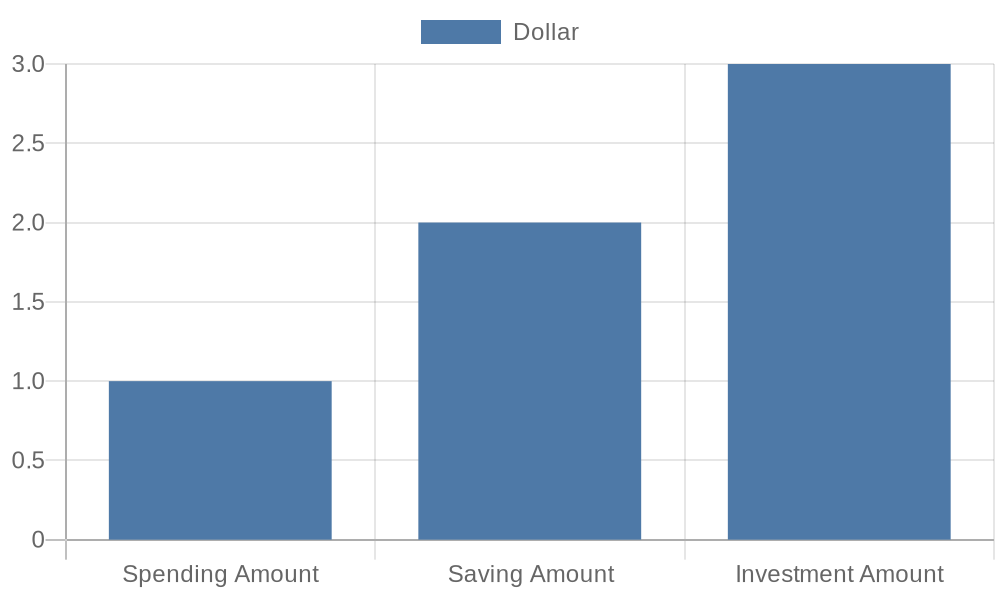
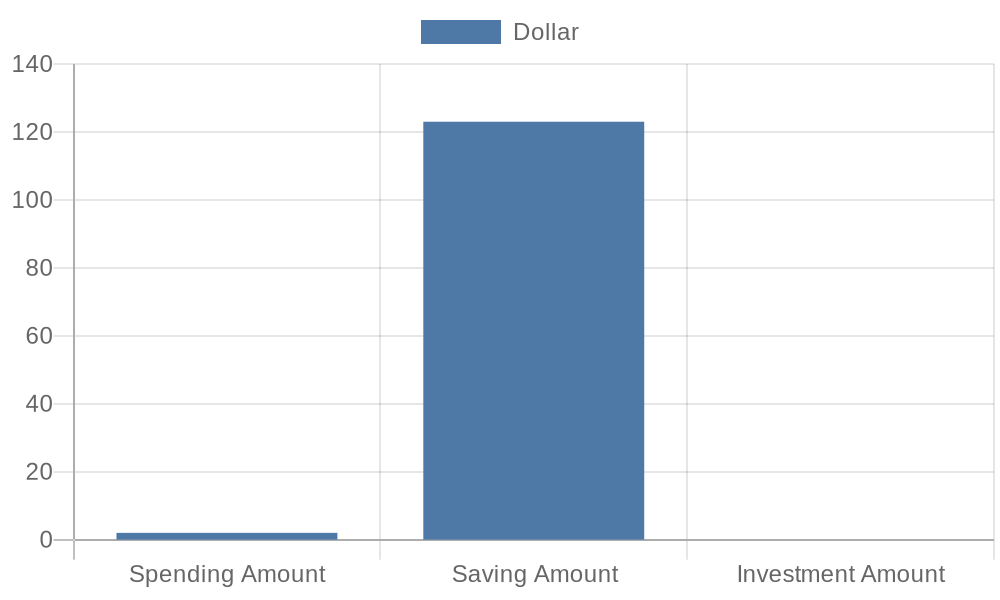
adjusted homescreen presenter/controller so that it uses the ChartQuery class to generate a graph reflecting the financial data on the homepage for each respective month.

diff --git a/src/view/HomeScreenView.java b/src/view/HomeScreenView.java
@@ -6,10 +6,12 @@ import interface_adapter.home_screen.HomeScreenState;
 import interface_adapter.home_screen.HomeScreenViewModel;
 import interface_adapter.ViewManagerModel;
 import javax.swing.*;
+import java.awt.*;
 import java.awt.event.ActionEvent;
 import java.awt.event.ActionListener;
 import java.beans.PropertyChangeEvent;
 import java.beans.PropertyChangeListener;
+import java.awt.image.BufferedImage;
 
 public class HomeScreenView extends JPanel implements ActionListener, PropertyChangeListener {
 
@@ -25,8 +27,10 @@ public class HomeScreenView extends JPanel implements ActionListener, PropertyCh
     private final JLabel remainingBudgetLabel; // "Remaining Budget: "
     private final JLabel totalIncomeLabel; // "Total Income: "
     private final JLabel totalExpensesLabel; // "Total Expenses: "
+    private JLabel statGraphImg;
 
     public HomeScreenView(HomeScreenViewModel homeVM, ViewManagerModel viewManagerModel, HomeScreenController homeController) {
+        this.setPreferredSize(new Dimension(1200, 800));
         this.homeVM = homeVM;
         this.viewManagerModel = viewManagerModel;
         this.homeController = homeController;
@@ -54,7 +58,11 @@ public class HomeScreenView extends JPanel implements ActionListener, PropertyCh
 
                             // call the controller to retrieve the new stats and display them
                             HomeScreenInputData inputData = new HomeScreenInputData(currState.getMonth());
-                            homeController.execute(inputData);
+                            try {
+                                homeController.execute(inputData);
+                            } catch (Exception e) {
+
+                            }
                         }
                     }
                 }
@@ -69,6 +77,14 @@ public class HomeScreenView extends JPanel implements ActionListener, PropertyCh
         remainingBudgetLabel = new JLabel("Remaining Budget: ");
         totalIncomeLabel = new JLabel("Total Income: ");
         totalExpensesLabel = new JLabel("Total Expenses: ");
+
+        BufferedImage statGraph = homeVM.getState().getStatGraph();
+        statGraphImg = new JLabel();
+        if (statGraph != null) {
+            Image scaledGraph = statGraph.getScaledInstance(320, 180, Image.SCALE_DEFAULT);
+            statGraphImg.setIcon(new ImageIcon(scaledGraph));
+        }
+        this.add(statGraphImg);
 
         JPanel buttons = new JPanel();
         buttons.add(addEditBudgetButton);
@@ -115,7 +131,6 @@ public class HomeScreenView extends JPanel implements ActionListener, PropertyCh
     @Override
     public void propertyChange(PropertyChangeEvent evt) {
         Object response = evt.getNewValue();
-
         // view changed to home view, update the stats using the controller
         if (evt.getPropertyName().equals("viewUpdate")) {
             HomeScreenState currState = homeVM.getState();
@@ -125,11 +140,16 @@ public class HomeScreenView extends JPanel implements ActionListener, PropertyCh
 
             // call the controller to retrieve the new stats and display them
             HomeScreenInputData inputData = new HomeScreenInputData(currState.getMonth());
-            homeController.execute(inputData);
+            try {
+                homeController.execute(inputData);
+            } catch (Exception e) {
+
+            }
         }
 
         // update if the property change was a homescreen state change
         if (evt.getPropertyName().equals("state")) {
+
             System.out.println("Homescreen state change");
             HomeScreenState state = (HomeScreenState) response;
             // update displayed month
@@ -141,6 +161,13 @@ public class HomeScreenView extends JPanel implements ActionListener, PropertyCh
             String budgetText = "Remaining Budget: N/A";
             String incomeText = "Total Income: N/A";
             String expensesText = "Total Expenses: N/A";
+
+            // add image
+            BufferedImage statGraph = homeVM.getState().getStatGraph();
+            if (statGraph != null) {
+                Image scaledGraph = statGraph.getScaledInstance(800, 450, Image.SCALE_DEFAULT);
+                statGraphImg.setIcon(new ImageIcon(scaledGraph));
+            }
 
             // if the budget is not null, update the relevant financial amounts
             if (state.isBudgetNull()) {

diff --git a/src/interface_adapter/home_screen/HomeScreenPresenter.java b/src/interface_adapter/home_screen/HomeScreenPresenter.java
@@ -3,6 +3,7 @@ package interface_adapter.home_screen;
 import back_end.home_screen.HomeScreenOutputBoundary;
 import back_end.home_screen.HomeScreenOutputData;
 import interface_adapter.ViewManagerModel;
+import back_end.chart_visualisation.back_end.ChartBuilder;
 
 public class HomeScreenPresenter implements HomeScreenOutputBoundary {
 
@@ -15,13 +16,21 @@ public class HomeScreenPresenter implements HomeScreenOutputBoundary {
     }
 
     @Override
-    public void prepareSuccessView(HomeScreenOutputData outputData) {
-
+    public void prepareSuccessView(HomeScreenOutputData outputData) throws Exception {
         HomeScreenState state = homeVM.getState();
+        double budRemain = outputData.getRemainingBudget();
+        double totalExp = outputData.getTotalExpenses();
+        double totalInc = outputData.getTotalIncome();
+
+        // update state with relevant financial data
         state.setBudgetNull(true);
-        state.setRemainingBudget(outputData.getRemainingBudget());
-        state.setTotalExpenses(outputData.getTotalExpenses());
-        state.setTotalIncome(outputData.getTotalIncome());
+        state.setRemainingBudget(budRemain);
+        state.setTotalExpenses(totalExp);
+        state.setTotalIncome(totalInc);
+
+        //update state with image
+        state.setStatGraph(ChartBuilder.build(totalExp, totalInc, 0));
+
         this.homeVM.setState(state);
         homeVM.firePropertyChanged();
 
@@ -32,6 +41,13 @@ public class HomeScreenPresenter implements HomeScreenOutputBoundary {
     public void prepareFailView() {
         HomeScreenState state = homeVM.getState();
         state.setBudgetNull(false);
+        //update state with image
+        try{
+            state.setStatGraph(ChartBuilder.build(0, 0, 0));
+        } catch (Exception e) {
+
+        }
+
         this.homeVM.setState(state);
         homeVM.firePropertyChanged();
 

diff --git a/src/interface_adapter/home_screen/HomeScreenState.java b/src/interface_adapter/home_screen/HomeScreenState.java
@@ -2,6 +2,7 @@ package interface_adapter.home_screen;
 
 import java.time.LocalDateTime;
 import java.time.Month;
+import java.awt.image.BufferedImage;
 
 public class HomeScreenState {
 
@@ -11,6 +12,7 @@ public class HomeScreenState {
     private double remainingBudget;
     private double totalIncome;
     private double totalExpenses;
+    private BufferedImage statGraph;
 
     public HomeScreenState() {
         this.month = LocalDateTime.now().getMonth();
@@ -68,6 +70,14 @@ public class HomeScreenState {
 
     public void setBudgetNull(boolean budgetNull) {
         this.budgetNull = budgetNull;
+    }
+
+    public void setStatGraph(BufferedImage newGraph) {
+        this.statGraph = newGraph;
+    }
+
+    public BufferedImage getStatGraph() {
+        return this.statGraph;
     }
 
 }

diff --git a/src/back_end/home_screen/HomeScreenInteractor.java b/src/back_end/home_screen/HomeScreenInteractor.java
@@ -34,7 +34,7 @@ public class HomeScreenInteractor implements HomeScreenInputBoundary {
      * @param homeScreenInputData   input data
      */
     @Override
-    public void execute(HomeScreenInputData homeScreenInputData) {
+    public void execute(HomeScreenInputData homeScreenInputData) throws Exception {
 
         Month currentMonth = homeScreenInputData.getMonth();
 

diff --git a/src/back_end/home_screen/HomeScreenOutputBoundary.java b/src/back_end/home_screen/HomeScreenOutputBoundary.java
@@ -9,6 +9,6 @@ public interface HomeScreenOutputBoundary {
      * prepares the success view with the specified output data
      * @param homeScreenOutputData  output data
      */
-    void prepareSuccessView(HomeScreenOutputData homeScreenOutputData);
+    void prepareSuccessView(HomeScreenOutputData homeScreenOutputData) throws Exception;
     void prepareFailView();
 }

diff --git a/src/interface_adapter/home_screen/HomeScreenController.java b/src/interface_adapter/home_screen/HomeScreenController.java
@@ -12,7 +12,7 @@ public class HomeScreenController{
         this.homeScreenInteractor = homeScreenInteractor;
     }
 
-    public void execute(HomeScreenInputData homeScreenInputData) {
+    public void execute(HomeScreenInputData homeScreenInputData) throws Exception {
         homeScreenInteractor.execute(homeScreenInputData);
     }
 }

diff --git a/src/back_end/home_screen/HomeScreenInputBoundary.java b/src/back_end/home_screen/HomeScreenInputBoundary.java
@@ -8,5 +8,5 @@ public interface HomeScreenInputBoundary {
      * executes home screen with specified input data
      * @param homeScreenInputData   input data
      */
-    void execute(HomeScreenInputData homeScreenInputData);
+    void execute(HomeScreenInputData homeScreenInputData) throws Exception;
 }
